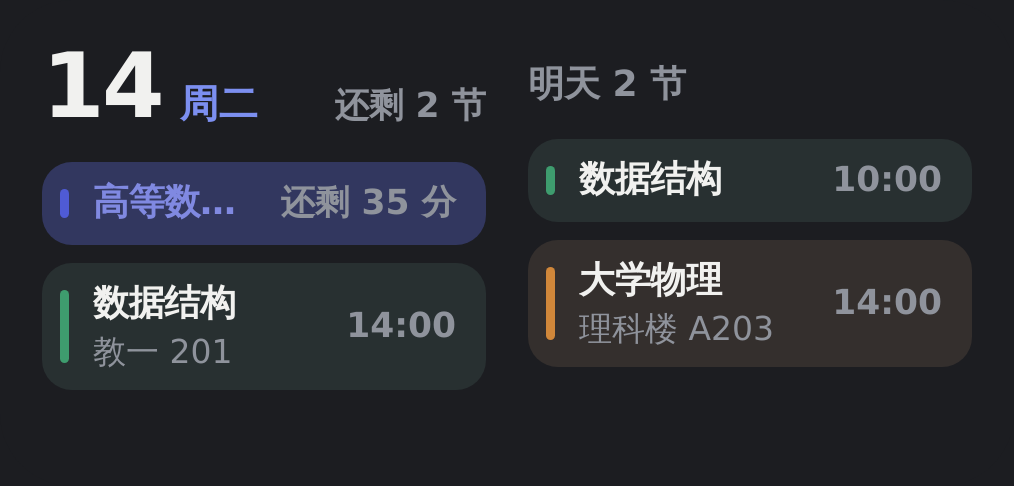
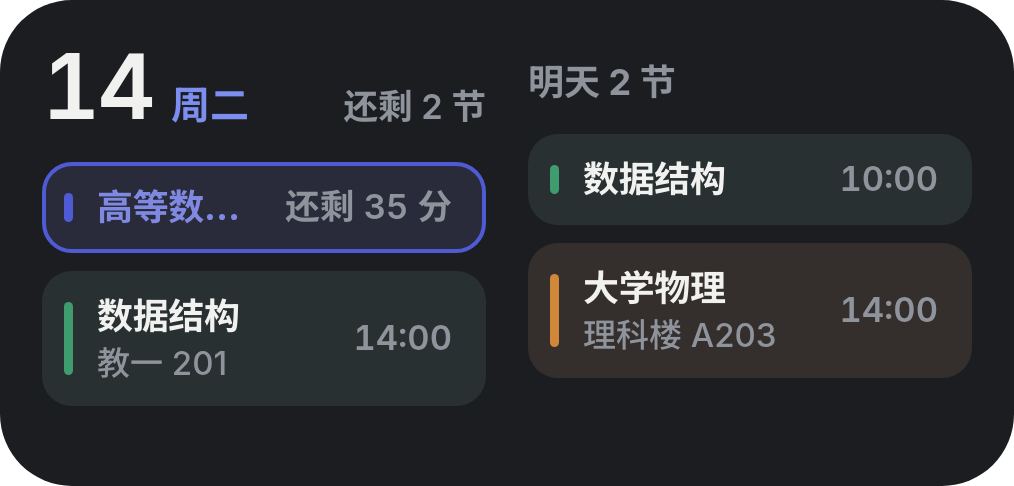
小组件正在上的课改为课程色边框、底色不变；预览图用 Inter + 思源重出，官网浅深两套同步（1.4.41）

diff --git a/tools/widget_previews.html b/tools/widget_previews.html
@@ -5,8 +5,11 @@
 <head>
 <meta charset="utf-8" />
 <style>
+  /* 字体同 App：Inter 取工程自带文件；中文需本机装有 Noto Sans SC（见 gen_widget_previews.sh） */
+  @font-face { font-family: 'Inter Variable'; font-weight: 100 900; font-display: block; src: url('../public/fonts/inter-latin-wght-normal.woff2') format('woff2-variations'); unicode-range: U+0000-00FF, U+0131, U+0152-0153, U+02BB-02BC, U+02C6, U+02DA, U+02DC, U+0304, U+0308, U+0329, U+2000-206F, U+20AC, U+2122, U+2191, U+2193, U+2212, U+2215, U+FEFF, U+FFFD; }
+  @font-face { font-family: 'Inter Variable'; font-weight: 100 900; font-display: block; src: url('../public/fonts/inter-latin-ext-wght-normal.woff2') format('woff2-variations'); unicode-range: U+0100-02BA, U+02BD-02C5, U+02C7-02CC, U+02CE-02D7, U+02DD-02FF, U+0304, U+0308, U+0329, U+1D00-1DBF, U+1E00-1E9F, U+1EF2-1EFF, U+2020, U+20A0-20AB, U+20AD-20C0, U+2113, U+2C60-2C7F, U+A720-A7FF; }
   html, body { margin: 0; background: transparent; }
-  body { font-family: -apple-system, "Noto Sans CJK SC", "PingFang SC", system-ui, sans-serif; -webkit-font-smoothing: antialiased; }
+  body { font-family: "Inter Variable", "Noto Sans SC", "Noto Sans CJK SC", "Source Han Sans SC", "PingFang SC", sans-serif; -webkit-font-smoothing: antialiased; }
   .t-light { --surface: #fff; --ink: #16171A; --ink3: #8A8E97; --ink4: #A2A6AF; --accent: #4F5BD5; --tint: #fff; --mix: #000; }
   .t-dark { --surface: #1C1D21; --ink: #F1F1EF; --ink3: #8F939C; --ink4: #8F939C; --accent: #7C8FF0; --tint: #26272C; --mix: #fff; }
   .t-black { --surface: #121214; --ink: #F1F1EF; --ink3: #8F939C; --ink4: #8F939C; --accent: #7C8FF0; --tint: #1D1D20; --mix: #fff; }
@@ -16,7 +19,7 @@
   .wd { font-size: 13px; font-weight: 600; color: var(--accent); }
   .sub { margin-left: auto; font-size: 11.5px; font-weight: 600; color: var(--ink4); }
   .rows { margin-top: 10px; display: flex; flex-direction: column; gap: 6px; }
-  .row { display: flex; align-items: center; gap: 8px; border-radius: 10px; padding: 6px 10px 6px 0; }
+  .row { display: flex; align-items: center; gap: 8px; border-radius: 10px; padding: 6px 10px 6px 0; border: 1.5px solid transparent; }
   .bar { width: 3px; margin: 3px 0 3px 6px; border-radius: 99px; align-self: stretch; flex: none; }
   .name { font-size: 12px; line-height: 1.3; font-weight: 700; letter-spacing: -.01em; color: var(--ink); white-space: nowrap; overflow: hidden; text-overflow: ellipsis; }
   .loc { margin-top: 1px; font-size: 11px; line-height: 1.25; font-weight: 500; color: var(--ink3); white-space: nowrap; overflow: hidden; text-overflow: ellipsis; }
@@ -33,7 +36,7 @@
   .wds .on { color: var(--accent); }
   .grid { margin-top: 8px; display: flex; gap: 6px; }
   .col { flex: 1; display: flex; flex-direction: column; gap: 6px; min-width: 0; }
-  .cell { height: 64px; box-sizing: border-box; border-radius: 10px; padding: 8px 6px; }
+  .cell { height: 64px; box-sizing: border-box; border-radius: 10px; padding: 8px 6px; border: 1.5px solid transparent; }
   .cell .n { font-size: 11px; line-height: 1.25; font-weight: 700; white-space: nowrap; overflow: hidden; text-overflow: ellipsis; }
   .cell .t { margin-top: 6px; font-size: 10px; line-height: 1.3; font-weight: 600; color: var(--ink3); font-variant-numeric: tabular-nums; }
   .cell .l { margin-top: 1px; font-size: 10px; line-height: 1.3; font-weight: 500; color: var(--ink4); white-space: nowrap; overflow: hidden; text-overflow: ellipsis; }
@@ -51,7 +54,7 @@ const C = { math: '#4F5BD5', ds: '#3E9C6E', phy: '#D0873A', eng: '#C25B5B', la: 
 const tint = (c, p) => `color-mix(in srgb, ${c} ${p}%, var(--tint))`
 const deep = (c, p = 88) => `color-mix(in srgb, ${c} ${p}%, var(--mix))`
 const row = (name, loc, time, color, now) => `
-  <div class="row" style="background:${tint(color, now ? 30 : 8)}">
+  <div class="row" style="background:${tint(color, 8)}${now ? `;border-color:${color}` : ''}">
     <i class="bar" style="background:${color}"></i>
     <div class="grow"><div class="name"${now ? ` style="color:${deep(color, 72)}"` : ''}>${name}</div>${loc ? `<div class="loc">${loc}</div>` : ''}</div>
     ${time ? `<div class="time">${time}</div>` : ''}
@@ -86,8 +89,8 @@ const views = {
       <div class="head" style="gap:0"><span class="wk">第 7 周</span><span class="dt">10月14日</span></div>
       <div class="wds">${wd.map((w, i) => `<div class="${i === 1 ? 'on' : ''}">${w}</div>`).join('')}</div>
       <div class="grid">${cols.map((col) => `<div class="col">${col.map(([c, n, t, l, now]) => `
-        <div class="cell" style="background:${tint(c, now ? 38 : 8)}">
-          <div class="n" style="color:${deep(c, now ? 70 : 88)}">${n}</div><div class="t">${t}</div><div class="l">${l}</div>
+        <div class="cell" style="background:${tint(c, 8)}${now ? `;border-color:${c}` : ''}">
+          <div class="n" style="color:${deep(c, 88)}">${n}</div><div class="t">${t}</div><div class="l">${l}</div>
         </div>`).join('')}</div>`).join('')}</div>
     </div>`
   })(),

diff --git a/tools/gen_widget_layouts.py b/tools/gen_widget_layouts.py
@@ -19,6 +19,7 @@ def row(i, name_sp='13sp', loc=True, time=True, prefix='row'):
     parts = [
         f'    <FrameLayout android:id="@+id/{rid}" android:layout_width="match_parent" android:layout_height="wrap_content" android:layout_marginTop="6dp">',
         f'        <ImageView android:id="@+id/{rid}_bg" android:layout_width="match_parent" android:layout_height="match_parent" android:scaleType="fitXY" android:src="@drawable/widget_row_bg" android:contentDescription="@null" />',
+        f'        <ImageView android:id="@+id/{rid}_ring" android:layout_width="match_parent" android:layout_height="match_parent" android:scaleType="fitXY" android:src="@drawable/widget_focus" android:visibility="gone" android:contentDescription="@null" />',
         '        <LinearLayout android:layout_width="match_parent" android:layout_height="wrap_content" android:orientation="horizontal" android:gravity="center_vertical" android:paddingTop="5dp" android:paddingBottom="5dp" android:paddingLeft="6dp" android:paddingRight="8dp">',
         f'            <ImageView android:id="@+id/{rid}_bar" android:layout_width="3dp" android:layout_height="20dp" android:scaleType="fitXY" android:src="@drawable/widget_bar" android:contentDescription="@null" />',
         '            <LinearLayout android:layout_width="0dp" android:layout_weight="1" android:layout_height="wrap_content" android:orientation="vertical" android:layout_marginLeft="7dp">',
@@ -104,6 +105,7 @@ for c in range(5):
         cid = f'c{c}_{r}'
         cells.append(f'''            <FrameLayout android:id="@+id/{cid}" android:layout_width="match_parent" android:layout_height="0dp" android:layout_weight="1" android:layout_marginTop="4dp">
                 <ImageView android:id="@+id/{cid}_bg" android:layout_width="match_parent" android:layout_height="match_parent" android:scaleType="fitXY" android:src="@drawable/widget_cell_bg" android:contentDescription="@null" />
+                <ImageView android:id="@+id/{cid}_ring" android:layout_width="match_parent" android:layout_height="match_parent" android:scaleType="fitXY" android:src="@drawable/widget_focus" android:visibility="gone" android:contentDescription="@null" />
                 <LinearLayout android:layout_width="match_parent" android:layout_height="match_parent" android:orientation="vertical" android:padding="5dp">
                     <TextView android:id="@+id/{cid}_name" android:layout_width="match_parent" android:layout_height="wrap_content" android:maxLines="1" android:ellipsize="end" android:textSize="10sp" android:textStyle="bold" android:textColor="#16171A" />
                     <TextView android:id="@+id/{cid}_time" android:layout_width="match_parent" android:layout_height="wrap_content" android:maxLines="1" android:textSize="9sp" android:textStyle="bold" android:textColor="#8A8E97" android:layout_marginTop="3dp" />

diff --git a/android/app/src/main/java/app/timetable/widget/WidgetRender.java b/android/app/src/main/java/app/timetable/widget/WidgetRender.java
@@ -154,7 +154,7 @@ public final class WidgetRender {
         v.setTextViewText(R.id.w_sub, sub == null ? "" : sub);
     }
 
-    /** 一行课：底色是课程色 8% 铺在卡片底上；正在上的那节底色加深到 30%、课名用课程色，时间位换成剩余时长 */
+    /** 一行课：底色是课程色 8% 铺在卡片底上；正在上的那节描一圈课程色边框、课名用课程色，时间位换成剩余时长 */
     private static void row(Context ctx, RemoteViews v, Palette p, String prefix, int idx, Item it, boolean now, String time) {
         int rowId = id(ctx, prefix + idx);
         if (it == null) {
@@ -162,7 +162,9 @@ public final class WidgetRender {
             return;
         }
         v.setViewVisibility(rowId, View.VISIBLE);
-        v.setInt(id(ctx, prefix + idx + "_bg"), "setColorFilter", p.tint(it.color, now ? 30 : 8));
+        v.setInt(id(ctx, prefix + idx + "_bg"), "setColorFilter", p.tint(it.color, 8));
+        v.setViewVisibility(id(ctx, prefix + idx + "_ring"), now ? View.VISIBLE : View.GONE);
+        v.setInt(id(ctx, prefix + idx + "_ring"), "setColorFilter", it.color);
         v.setInt(id(ctx, prefix + idx + "_bar"), "setColorFilter", it.color);
         v.setTextViewText(id(ctx, prefix + idx + "_name"), it.name);
         v.setTextColor(id(ctx, prefix + idx + "_name"), now ? p.deepen(it.color, 72) : p.ink);
@@ -382,9 +384,11 @@ public final class WidgetRender {
                 }
                 boolean nowCell = it.startAt <= now && now < it.endAt;
                 v.setViewVisibility(id(ctx, cid), View.VISIBLE);
-                v.setInt(id(ctx, cid + "_bg"), "setColorFilter", p.tint(it.color, nowCell ? 38 : 8));
+                v.setInt(id(ctx, cid + "_bg"), "setColorFilter", p.tint(it.color, 8));
+                v.setViewVisibility(id(ctx, cid + "_ring"), nowCell ? View.VISIBLE : View.GONE);
+                v.setInt(id(ctx, cid + "_ring"), "setColorFilter", it.color);
                 v.setTextViewText(id(ctx, cid + "_name"), it.name);
-                v.setTextColor(id(ctx, cid + "_name"), p.deepen(it.color, nowCell ? 70 : 88));
+                v.setTextColor(id(ctx, cid + "_name"), p.deepen(it.color, 88));
                 v.setTextViewText(id(ctx, cid + "_time"), it.start);
                 v.setTextColor(id(ctx, cid + "_time"), p.ink3);
                 v.setTextViewText(id(ctx, cid + "_loc"), it.loc);
